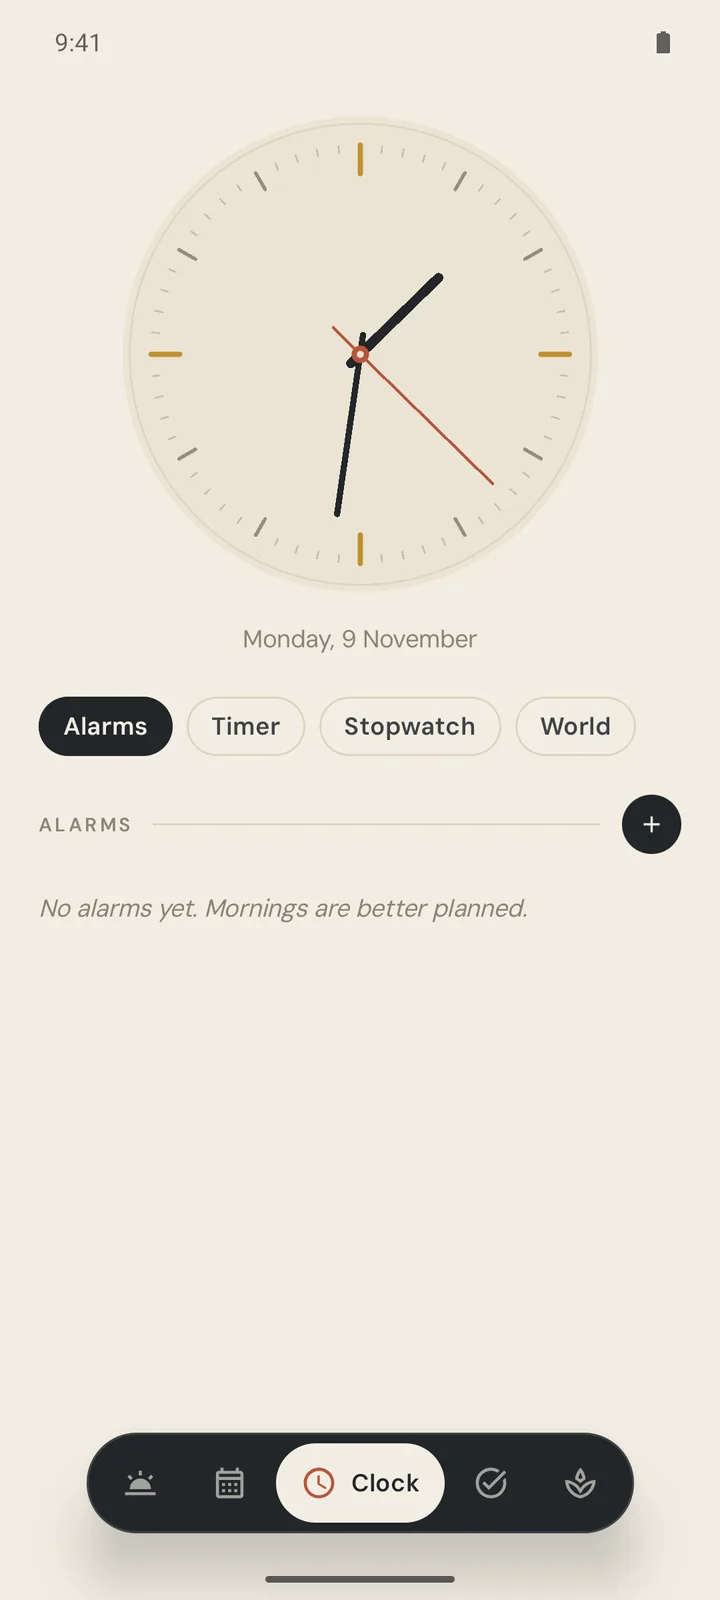
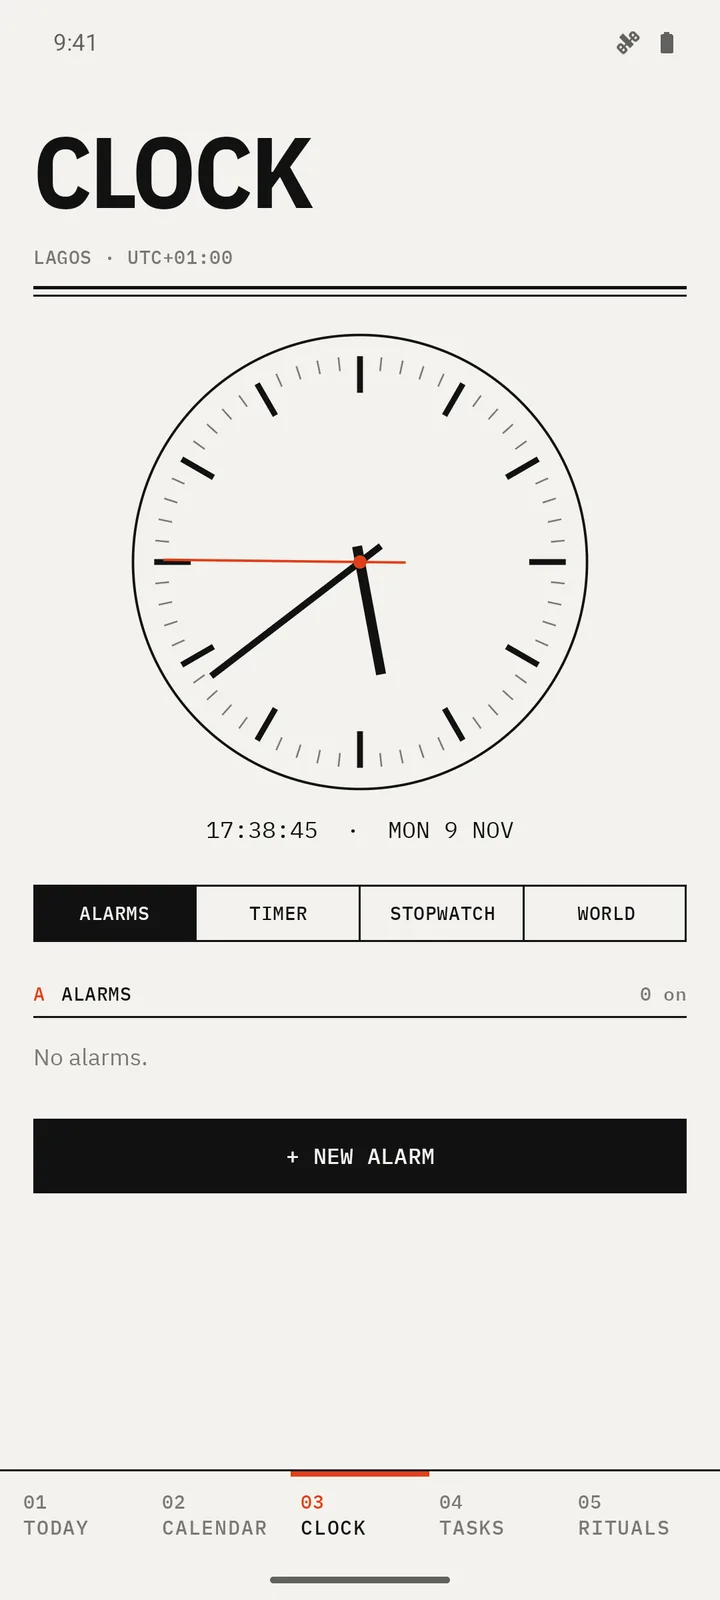
Almanac is public: link the repo and APK, new screens
The repository and its 1.0 release are public now, so the page drops the private badge and links the source and the APK. The app was redesigned in a print-edition style before release, so the five phone screens are retaken from the release APK (display size set one step smaller, so the month name fits on one line) and the text follows its README.

diff --git a/lib/projects.ts b/lib/projects.ts
@@ -313,31 +313,32 @@ export const PROJECTS: Project[] = [
   },
   {
     slug: 'almanac', title: 'Almanac', year: '2026', area: 'Android app', color: 'r2', icon: 'cal', cats: ['apps'],
-    private: true,
-    sub: 'Calendar, clock, tasks and daily rituals in one quiet Android app',
+    repo: GH + 'almanac',
+    links: [{ label: 'Download APK', href: GH + 'almanac/releases/latest' }],
+    sub: 'Calendar, clock, tasks and daily rituals in one offline Android app',
     headline: 'The whole day on one page.',
-    blurb: 'A calendar, alarms, a to-do list and habit streaks in one Kotlin and Jetpack Compose app with an almanac’s look: the date, the hour, the moon, how the day feels and what is still to do.',
+    blurb: 'A calendar, real alarms, a to-do list and habit streaks in one Kotlin and Jetpack Compose app, set like a newspaper: uncoated paper, black ink and one signal red.',
     platform: 'Android 8+: Kotlin & Jetpack Compose',
-    kpis: [['1.7 MB', 'release APK'], ['5', 'screens in one app'], ['4', 'clock tools'], ['Offline', 'no account, no network']],
+    kpis: [['2.0 MB', 'release APK'], ['5', 'sections in one app'], ['4', 'clock tools'], ['Offline', 'no network access']],
     pills: ['Kotlin', 'Jetpack Compose', 'Material 3'],
     stack: ['Kotlin', 'Jetpack Compose', 'Material 3'],
     phones: [
-      { src: '/assets/projects/almanac/today.webp', caption: 'Today: the hour, how far through the day, week and year you are, the moon, a mood and what is on the page.' },
-      { src: '/assets/projects/almanac/calendar.webp', caption: 'Calendar: the month at a glance, with events, due tasks and the day’s mood under each date.' },
-      { src: '/assets/projects/almanac/clock.webp', caption: 'Clock: an analog face above alarms, a timer, a stopwatch and world clocks.' },
-      { src: '/assets/projects/almanac/tasks.webp', caption: 'Tasks: priorities and due dates, with Open, Today, Upcoming and Done views.' },
-      { src: '/assets/projects/almanac/rituals.webp', caption: 'Rituals: daily habits with a streak, the week and the last 30 days.' },
+      { src: '/assets/projects/almanac/today.webp', caption: 'Today: the hour, the day, week and year so far, the moon, the quarter and how the day feels.' },
+      { src: '/assets/projects/almanac/calendar.webp', caption: 'Calendar: event dots, task rings, mood underlines and moon markers on the month grid.' },
+      { src: '/assets/projects/almanac/clock.webp', caption: 'Clock: an analog face with a signal-red second hand, over alarms, timer, stopwatch and world clocks.' },
+      { src: '/assets/projects/almanac/tasks.webp', caption: 'Tasks: a due date and one of three priorities, grouped from Overdue to Someday.' },
+      { src: '/assets/projects/almanac/rituals.webp', caption: 'Rituals: the week, a 30-day tally and a five-week map of how the days felt.' },
     ],
     overview: [
-      'One Android app for the things a day is made of: the calendar, alarms and timers, a to-do list and a few daily rituals. It is styled like a printed almanac, with IBM Plex type, warm paper colours and a floating dock.',
-      'Everything lives in <b>one small JSON file</b> in the app’s private storage, written atomically, so there is no account, no server and no network permission. The screenshots use the app’s built-in starter data.',
+      'One offline Android app for the things a day is made of: the calendar, alarms and timers, a to-do list and a few daily rituals. Its “print edition” look is uncoated paper, black ink and one signal red, set in IBM Plex Sans Condensed, Sans and Mono; events and rituals are marked in a few process inks, and mood shows as ink density.',
+      'Everything lives in <b>one JSON file</b> in the app’s private storage, and the app has <b>no network access</b> at all. The screenshots use its built-in starter data.',
     ],
     highlights: [
-      'A <b>Today</b> page that reads like the top of a newspaper: weekday, date and week number, a large live clock, progress bars for the day, week and year, the moon’s phase and illumination, a five-tone mood, the day’s tasks and rituals, and an aphorism.',
-      'A month <b>calendar</b> with events, due tasks and moods marked under each date, and a day sheet to add or edit events with a time, a colour and a note.',
-      '<b>Alarms</b> that repeat on chosen weekdays and ring through exact Android alarms, with Dismiss and Snooze actions on the notification, and come back after a reboot. Beside them: a timer, a stopwatch and world clocks.',
-      '<b>Tasks</b> with three priorities and a due date (today, tomorrow, a picked date or someday), filtered into Open, Today, Upcoming and Done; tap to finish, swipe to delete.',
-      '<b>Rituals</b>: daily habits with a running streak, the current week and a 30-day strip, ticked off from Today or their own page.',
+      'A <b>Today</b> page that reads like a front page: the weekday, a large condensed clock, progress through the day, week and year, the real moon phase (calculated on the device), the day of the year and quarter, a mood check-in, the agenda, rituals and a daily aphorism.',
+      'A month <b>calendar</b> you can swipe, with coloured event dots, task rings, mood underlines and full and new moon markers; tap a day to add or edit its events.',
+      '<b>Real system alarms</b> with repeat days, snooze and dismiss that survive reboots and app updates, plus a timer with presets that rings even when the app is closed, a stopwatch that highlights the best and worst laps, and world clocks with a day/night mark.',
+      '<b>Tasks</b> with three priorities and due dates, grouped into Overdue, Today, Upcoming and Someday; tick to finish, swipe to delete.',
+      '<b>Rituals</b>: a habit tracker with streaks, a 30-day tally per habit and a five-week mood map.',
     ],
   },
   {
